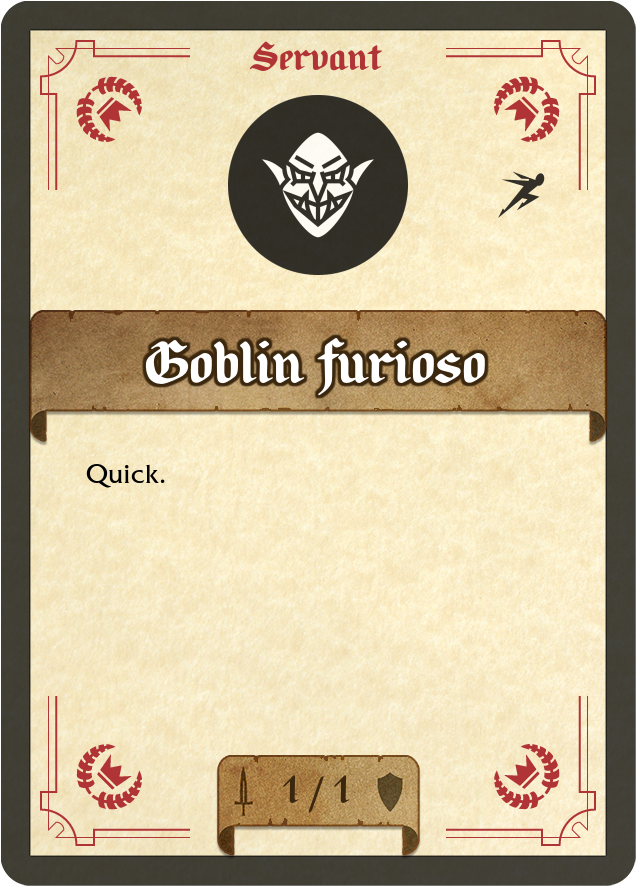
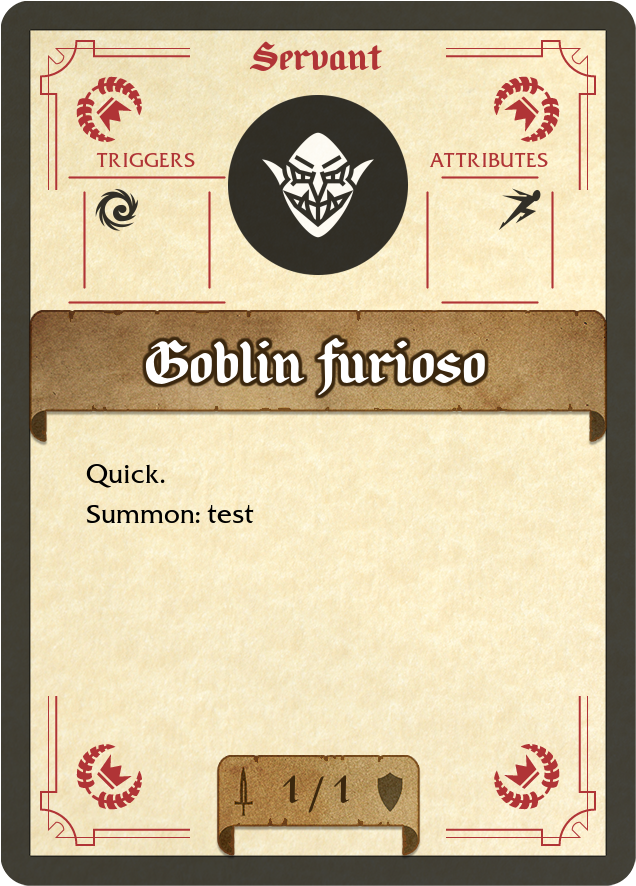
Rounded corners - incomplete

diff --git a/resources/php_scripts/generateCardImage.php b/resources/php_scripts/generateCardImage.php
@@ -1,4 +1,22 @@
 		<?php
+
+			function roundedRectangle($_x1, $_y1, $_x2, $_y2, $_r, $color, $ctx){
+				$lines = [
+					["x1" => $_x1 - $_r, "y1" => $_y1, "x2" => $_x2 + $_r, "y2" => $_y1 ],
+					["x1" => $_x2, "y1" => $_y1 + $_r, "x2" => $_x2, "y2" => $_y2 - $_r ],
+					["x1" => $_x1 - $_r, "y1" => $_y2, "x2" => $_x2 + $_r, "y2" => $_y2 ],
+					["x1" => $_x1, "y1" => $_y1 + $_r, "x2" => $_x1, "y2" => $_y2 - $_r ]
+				];
+
+				foreach ($lines as $key => $line) {
+				$ctx->line($line["x1"], $line["y1"], $line["x2"], $line["y2"], function ($draw) use ($color){
+					    $draw->color($color);
+					    $draw->width(2);
+					});
+				}
+
+			}
+
 			$mainPath = dirname(__DIR__, 2);
 			// include composer autoload
 			require $mainPath . '\vendor\autoload.php';
@@ -269,8 +287,10 @@
 						$checkCardText = $cardText[0];
 					}
 
-					$extraSymbolsOffsetX = 90;
-					$baseExtraSymbolsOffsetY = 170;
+					$baseExtraSymbolsOffsetX = 94;
+					$baseExtraSymbolsOffsetY = 187;
+					$extraSymbolSize = 45;
+					$extraSymbolSpacing = 15;
 
 					$triggerSymbols=array(
 						"active"=>array("path"=>"active.svg","selector"=>"Active:"),
@@ -282,17 +302,26 @@
 						"start"=>array("path"=>"start.svg","selector"=>"Duel start:"),
 						"summon"=>array("path"=>"summon.svg","selector"=>"Summon:")
 					);
-					$addedExtraSymbols = 0;
+					$extraSymbolsRow = 0;
+					$extraSymbolsColumn = 0;
+					$addedTriggers = 0;
 					foreach ($triggerSymbols as $key => $t_symbol) {
 						$checkSelector = $t_symbol["selector"];
 						if(strpos($checkCardText, $checkSelector) !== false){
 							$extraSymbolPath = $mainPath.'/resources/img/card_parts/triggers/'.$t_symbol["path"];
-							$extraSymbol = $manager->make($extraSymbolPath)->resize(50,50);
-							$extraSymbolRowOffset = $extraSymbol->height() + 20;
+							$extraSymbol = $manager->make($extraSymbolPath)->resize($extraSymbolSize,$extraSymbolSize);
+							$extraSymbolRowOffset = $extraSymbol->height() + $extraSymbolSpacing;
+							$extraSymbolColumnOffset = $extraSymbol->width() + $extraSymbolSpacing;
 							$extraSymbol->opacity(80);
-							$extraSymbolOffsetY = $baseExtraSymbolsOffsetY + $extraSymbolRowOffset * $addedExtraSymbols;
-							$card->insert($extraSymbol, 'top-left' , $extraSymbolsOffsetX, $extraSymbolOffsetY);
-							$addedExtraSymbols++;
+							$extraSymbolOffsetX = $baseExtraSymbolsOffsetX + $extraSymbolColumnOffset * $extraSymbolsColumn;
+							$extraSymbolOffsetY = $baseExtraSymbolsOffsetY + $extraSymbolRowOffset * $extraSymbolsRow;
+							$card->insert($extraSymbol, 'top-left' , $extraSymbolOffsetX, $extraSymbolOffsetY);
+							$extraSymbolsRow++;
+							if($extraSymbolsRow >= 2){
+								$extraSymbolsRow = 0;
+								$extraSymbolsColumn++;
+							}
+							$addedTriggers++;
 						}
 					}
 					//add proprieties
@@ -306,19 +335,75 @@
 						"quick"=>array("path"=>"quick.svg","selector"=>"Quick."),
 						"untargettable"=>array("path"=>"untargettable.svg","selector"=>"Untargettable.")
 					);
-					$addedExtraSymbols = 0;
+					$extraSymbolsRow = 0;
+					$extraSymbolsColumn = 0;
+					$addedProperties = 0;;
 					foreach ($propertySymbols as $key => $p_symbol) {
 						$checkSelector = $p_symbol["selector"];
-						echo "x";
 						if(strpos($checkCardText, $checkSelector) !== false){
 							$extraSymbolPath = $mainPath.'/resources/img/card_parts/properties/'.$p_symbol["path"];
-							$extraSymbol = $manager->make($extraSymbolPath)->resize(50,50);
-							$extraSymbolRowOffset = $extraSymbol->height() + 20;
+							$extraSymbol = $manager->make($extraSymbolPath)->resize($extraSymbolSize,$extraSymbolSize);
+							$extraSymbolRowOffset = $extraSymbol->height() + $extraSymbolSpacing;
+							$extraSymbolColumnOffset = $extraSymbol->width() + $extraSymbolSpacing;
 							$extraSymbol->opacity(80);
-							$extraSymbolOffsetY = $baseExtraSymbolsOffsetY + $extraSymbolRowOffset * $addedExtraSymbols;
-							$card->insert($extraSymbol, 'top-right' , $extraSymbolsOffsetX, $extraSymbolOffsetY);
-							$addedExtraSymbols++;
+							$extraSymbolOffsetX = $baseExtraSymbolsOffsetX + $extraSymbolColumnOffset * $extraSymbolsColumn;
+							//echo $extraSymbolOffsetX ;
+							$extraSymbolOffsetY = $baseExtraSymbolsOffsetY + $extraSymbolRowOffset * $extraSymbolsRow;
+							$card->insert($extraSymbol, 'top-right' , $extraSymbolOffsetX, $extraSymbolOffsetY);
+							$extraSymbolsRow++;
+							if($extraSymbolsRow >= 2){
+								$extraSymbolsRow = 0;
+								$extraSymbolsColumn++;
+							}
+							$addedProperties++;
 						}
+					}
+
+					$sideIconsWrapper = [];
+
+					$sideIconsWrapper["padding"] = 10;
+					$sideIconsWrapper["x1"] = $baseExtraSymbolsOffsetX - $sideIconsWrapper["padding"];
+					$sideIconsWrapper["y1"] = $baseExtraSymbolsOffsetY - $sideIconsWrapper["padding"];
+					$sideIconsWrapper["x2"] = $baseExtraSymbolsOffsetX + $extraSymbolSize*2 + $extraSymbolSpacing + $sideIconsWrapper["padding"];
+					$sideIconsWrapper["y2"] = $baseExtraSymbolsOffsetY + $extraSymbolSize*2 + $extraSymbolSpacing + $sideIconsWrapper["padding"];
+					$sideIconsWrapper["textX"] = ($sideIconsWrapper["x1"] + $sideIconsWrapper["x2"]) / 2;
+					$sideIconsWrapper["textY"] = $sideIconsWrapper["y1"] - $sideIconsWrapper["padding"];
+					$sideIconsWrapper["textSize"] = 18 * $rate;
+					print_r($sideIconsWrapper);
+
+					//triggers/proprieties areas borders
+					if($addedTriggers > 0){
+						$card->text("TRIGGERS", $sideIconsWrapper["textX"], $sideIconsWrapper["textY"], function($font) use($mainPath,$sideIconsWrapper,$mainColor) {
+						    //$font->file($mainPath.'/resources/fonts/FiraSans-Regular.otf');
+						    $font->file($mainPath.'/resources/fonts/FrizQuadrata.ttf');
+						    $font->size($sideIconsWrapper["textSize"]);
+						    $font->color($mainColor);
+						    $font->align('center');
+						    $font->valign('bottom');
+						});
+						/*
+						$card->rectangle($sideIconsWrapper["x1"], $sideIconsWrapper["y1"], $sideIconsWrapper["x2"], $sideIconsWrapper["y2"], function ($draw) use ($mainColor){
+						    $draw->border(2, $mainColor);
+						});
+						*/
+						roundedRectangle($sideIconsWrapper["x1"], $sideIconsWrapper["y1"], $sideIconsWrapper["x2"], $sideIconsWrapper["y2"], 15*$rate, $mainColor, $card);
+					}
+
+					if($addedProperties > 0){
+						$card->text("ATTRIBUTES", $cardW - $sideIconsWrapper["textX"], $sideIconsWrapper["textY"], function($font) use($mainPath,$sideIconsWrapper,$mainColor) {
+						    //$font->file($mainPath.'/resources/fonts/FiraSans-Regular.otf');
+						    $font->file($mainPath.'/resources/fonts/FrizQuadrata.ttf');
+						    $font->size($sideIconsWrapper["textSize"]);
+						    $font->color($mainColor);
+						    $font->align('center');
+						    $font->valign('bottom');
+						});
+						/*
+						$card->rectangle($cardW - $sideIconsWrapper["x1"], $sideIconsWrapper["y1"], $cardW - $sideIconsWrapper["x2"], $sideIconsWrapper["y2"], function ($draw) use ($mainColor){
+						    $draw->border(2, $mainColor);
+						});
+						*/
+						roundedRectangle($cardW - $sideIconsWrapper["x1"], $sideIconsWrapper["y1"], $cardW - $sideIconsWrapper["x2"], $sideIconsWrapper["y2"], 15*$rate, $mainColor, $card);
 					}
 
 					//servant/champion values
